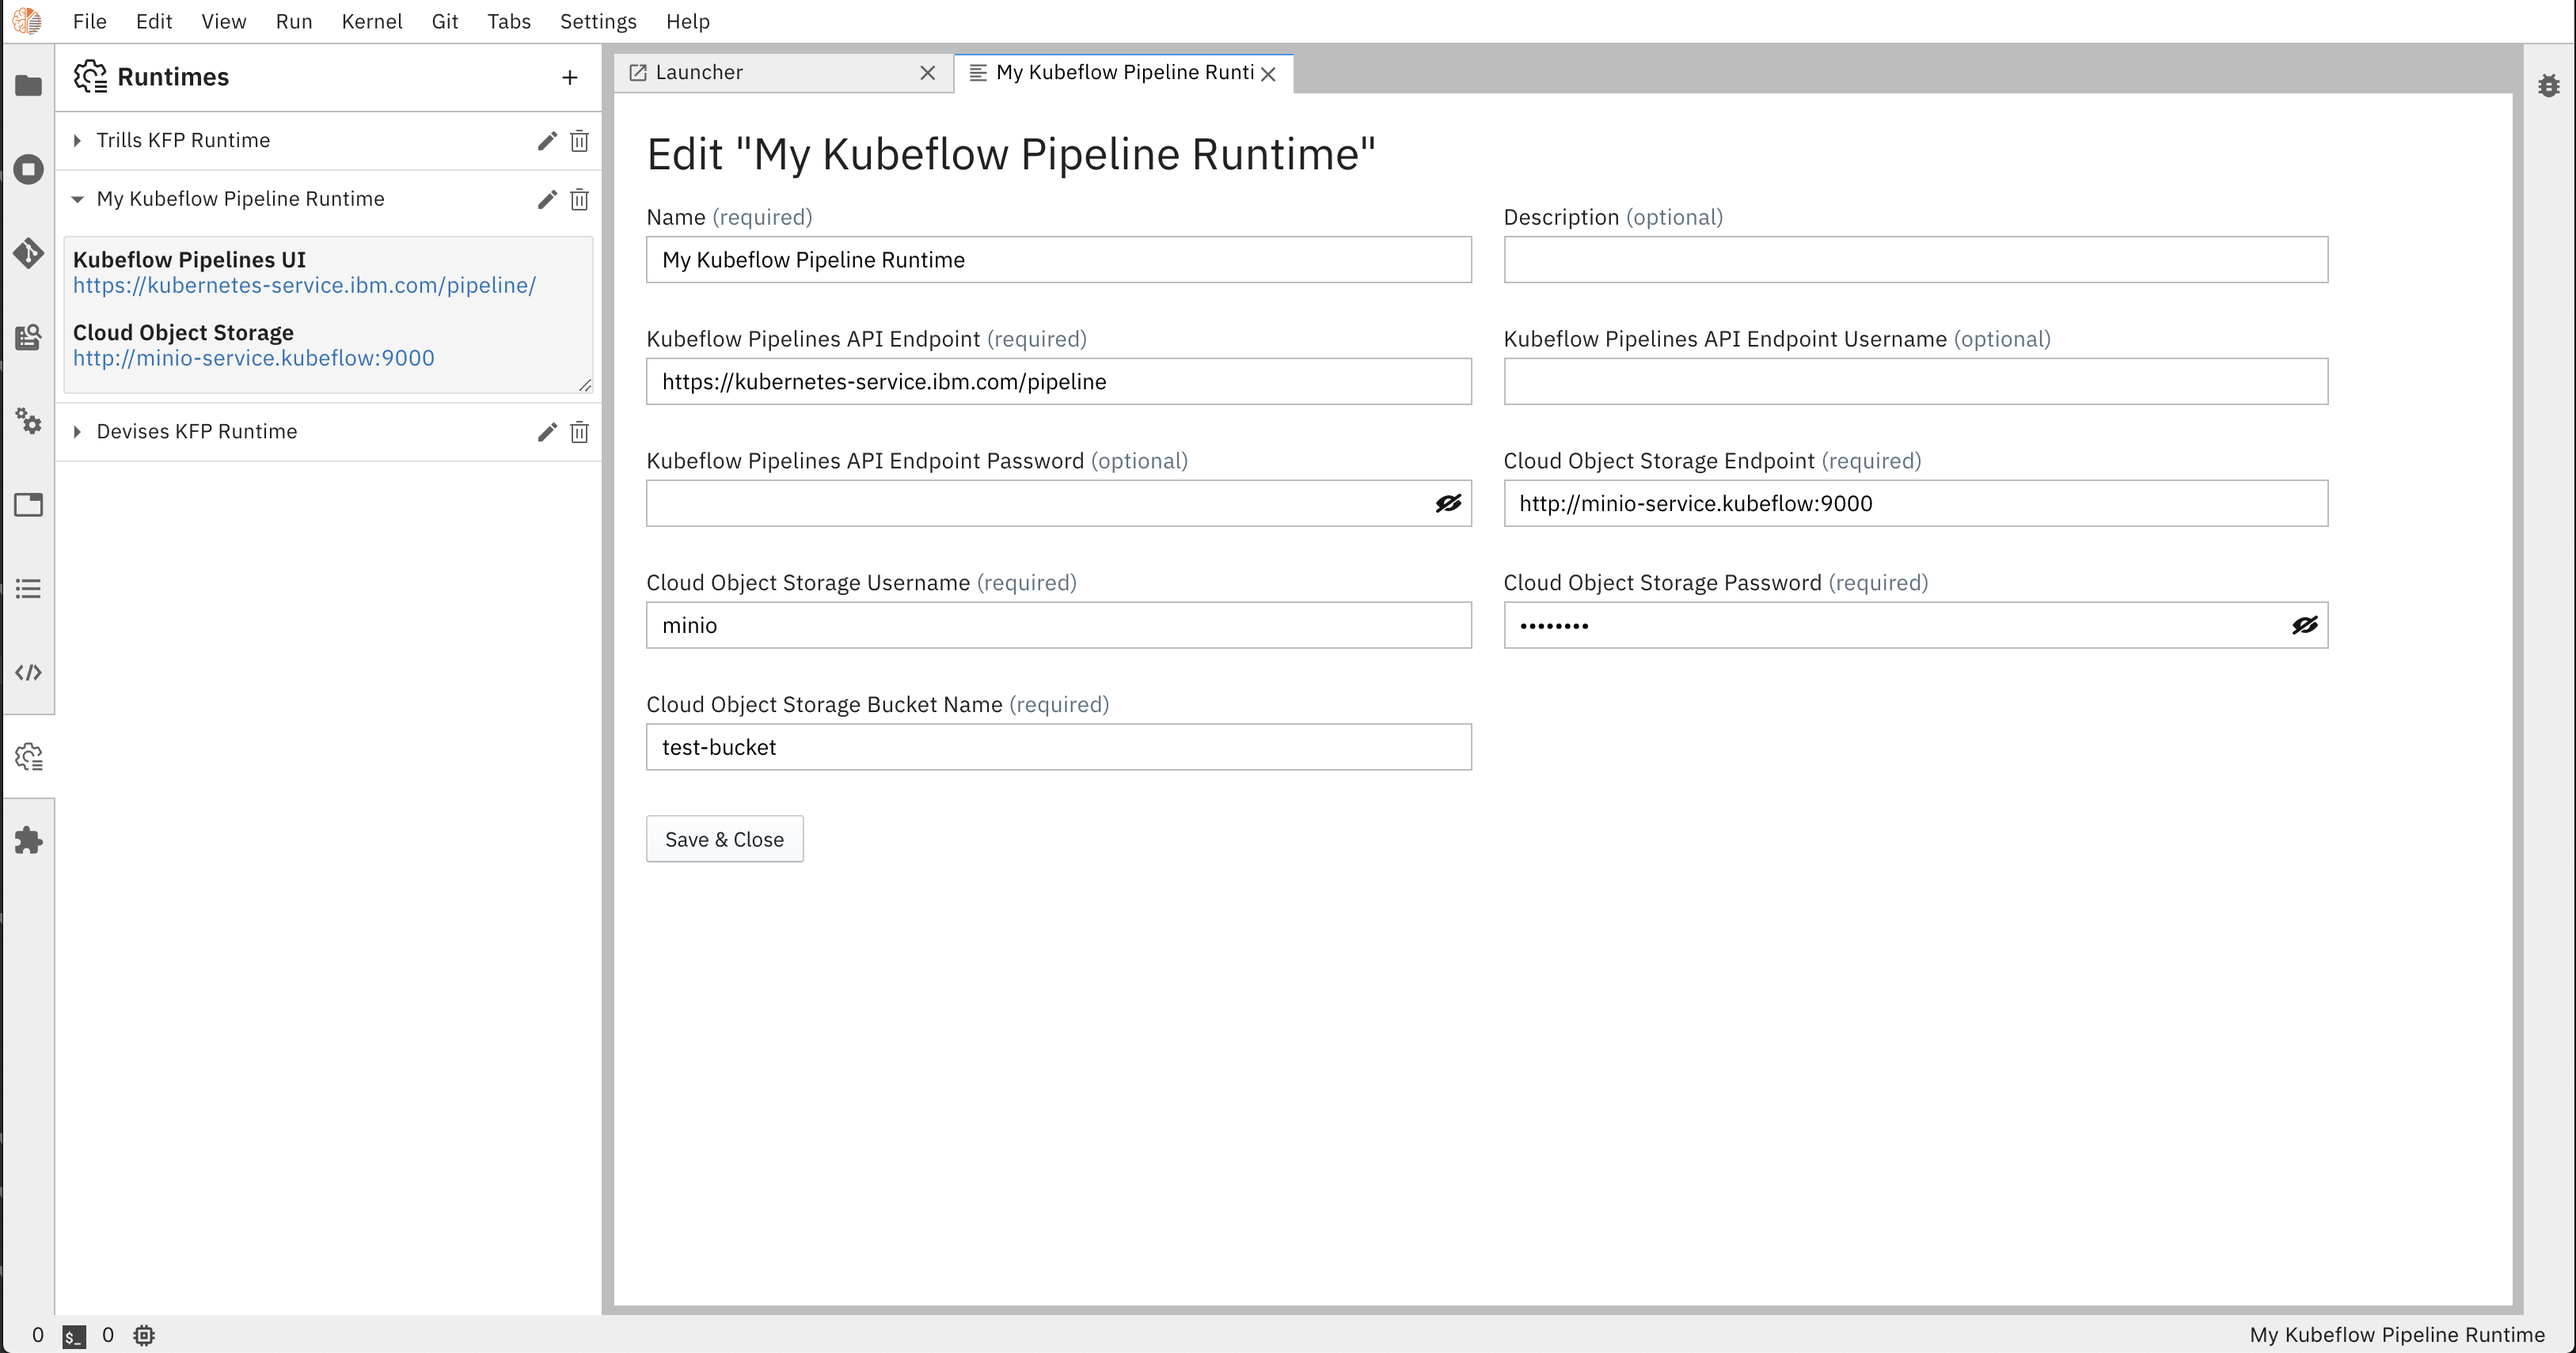
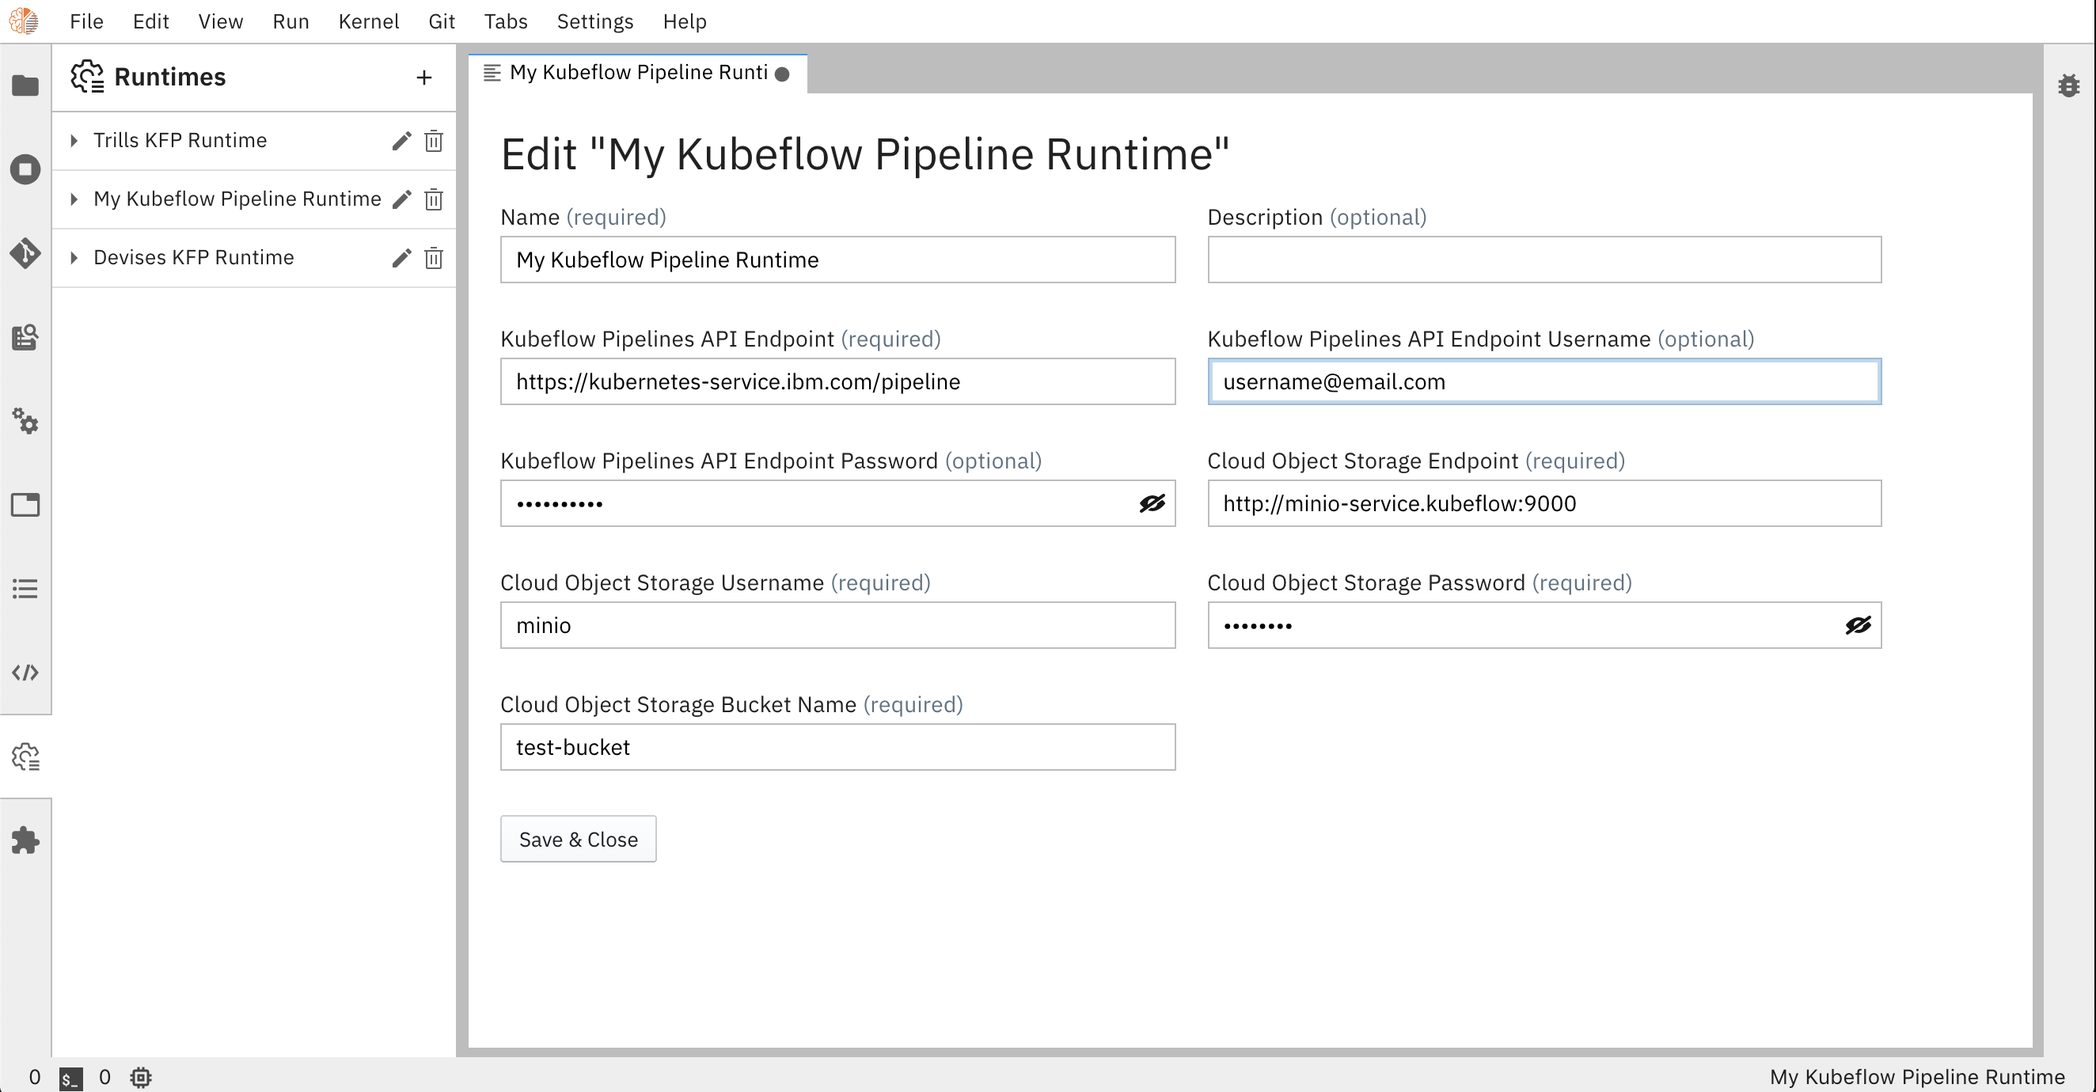
Update variable name as per review comment

diff --git a/elyra/pipeline/processor_kfp.py b/elyra/pipeline/processor_kfp.py
@@ -48,8 +48,8 @@ class KfpPipelineProcessor(PipelineProcessor):
         cos_bucket = runtime_configuration.metadata['cos_bucket']
 
         # TODO: try to encapsulate the info below
-        api_endpoint_username = runtime_configuration.metadata['api_endpoint_username']
-        api_endpoint_password = runtime_configuration.metadata['api_endpoint_password']
+        api_username = runtime_configuration.metadata['api_username']
+        api_password = runtime_configuration.metadata['api_password']
 
         with tempfile.TemporaryDirectory() as temp_dir:
             pipeline_path = os.path.join(temp_dir, f'{pipeline_name}.tar.gz')
@@ -76,12 +76,11 @@ class KfpPipelineProcessor(PipelineProcessor):
 
             session_cookie = None
 
-            # TODO: double check if empty string is a valid pwd
-            if api_endpoint_username and api_endpoint_password:
+            if api_username and api_password:
                 endpoint = api_endpoint.replace('/pipeline', '')
                 session_cookie = self._get_user_auth_session_cookie(endpoint,
-                                                                    api_endpoint_username,
-                                                                    api_endpoint_password)
+                                                                    api_username,
+                                                                    api_password)
 
             client = kfp.Client(host=api_endpoint, cookies=session_cookie)
 

diff --git a/docs/source/user_guide/runtime-conf.md b/docs/source/user_guide/runtime-conf.md
@@ -36,8 +36,8 @@ elyra-metadata install runtimes --schema_name=kfp \
        --name=my_kfp \
        --display_name="My Kubeflow Pipeline Runtime" \
        --api_endpoint=https://kubernetes-service.ibm.com/pipeline \
-       --api_endpoint_username=username@email.com \
-       --api_endpoint_password=mypassword \
+       --api_username=username@email.com \
+       --api_password=mypassword \
        --cos_endpoint=http://minio-service.kubeflow:9000 \
        --cos_username=minio \
        --cos_password=minio123 \
@@ -50,8 +50,8 @@ This produces the following content in `my_kfp.json`:
     "schema_name": "kfp",
     "metadata": {
         "api_endpoint": "https://kubernetes-service.ibm.com/pipeline",
-        "api_endpoint_username": "username@email.com",
-        "api_endpoint_password": "mypassword",
+        "api_username": "username@email.com",
+        "api_password": "mypassword",
         "cos_endpoint": "http://minio-service.kubeflow:9000",
         "cos_username": "minio",
         "cos_password": "minio123",
@@ -96,12 +96,12 @@ The KubeFlow Pipelines API Endpoint you wish to run your Pipeline.
 
 Example: `https://kubernetes-service.ibm.com/pipeline`
 
-##### api_endpoint_username
+##### api_username
 Username used to access your KubeFlow Pipelines API endpoint. SEE NOTE.
 
 Example: `username@email.com`
 
-##### api_endpoint_password
+##### api_password
 Password used to access your KubeFlow Pipelines API endpoint. SEE NOTE.
 
 Example: `mypassword`
@@ -127,7 +127,7 @@ Name of the bucket you want your artifacts in. If the bucket doesn't exist, it w
 Example: `test-bucket`
 
 NOTE: 
-If using an authentication restricted Kubeflow environment, you must enter your credentials in `api_endpoint_username` and `api_endpoint_password` fields 
+If using an authentication restricted Kubeflow environment, you must enter your credentials in `api_username` and `api_password` fields 
 to allow pipeline uploads through Elyra.
 
 If using IBM Cloud Object Storage, you must generate a set of [HMAC Credentials](https://cloud.ibm.com/docs/services/cloud-object-storage/hmac?topic=cloud-object-storage-uhc-hmac-credentials-main) 

diff --git a/docs/source/developer_guide/metadata.md b/docs/source/developer_guide/metadata.md
@@ -67,8 +67,8 @@ And each metadata file looks like:
   "schema_name": "kfp",
   "metadata": {
     "api_endpoint": "http://weakish1.fyre.ibm.com:32488/pipeline",
-    "api_endpoint_username": "username@email.com",
-    "api_endpoint_password": "mypassword",
+    "api_username": "username@email.com",
+    "api_password": "mypassword",
     "cos_endpoint": "http://weakish1.fyre.ibm.com:30427",
     "cos_username": "minio",
     "cos_password": "minio123",
@@ -135,8 +135,8 @@ if not runtime_configuration:
     raise RuntimeError("Runtime metadata not available.")
 
 api_endpoint = runtime_configuration.metadata['api_endpoint']
-api_endpoint_username = runtime_configuration.metadata['api_endpoint_username']
-api_endpoint_password = runtime_configuration.metadata['api_endpoint_password']
+api_username = runtime_configuration.metadata['api_username']
+api_password = runtime_configuration.metadata['api_password']
 cos_endpoint = runtime_configuration.metadata['cos_endpoint']
 cos_username = runtime_configuration.metadata['cos_username']
 cos_password = runtime_configuration.metadata['cos_password']
